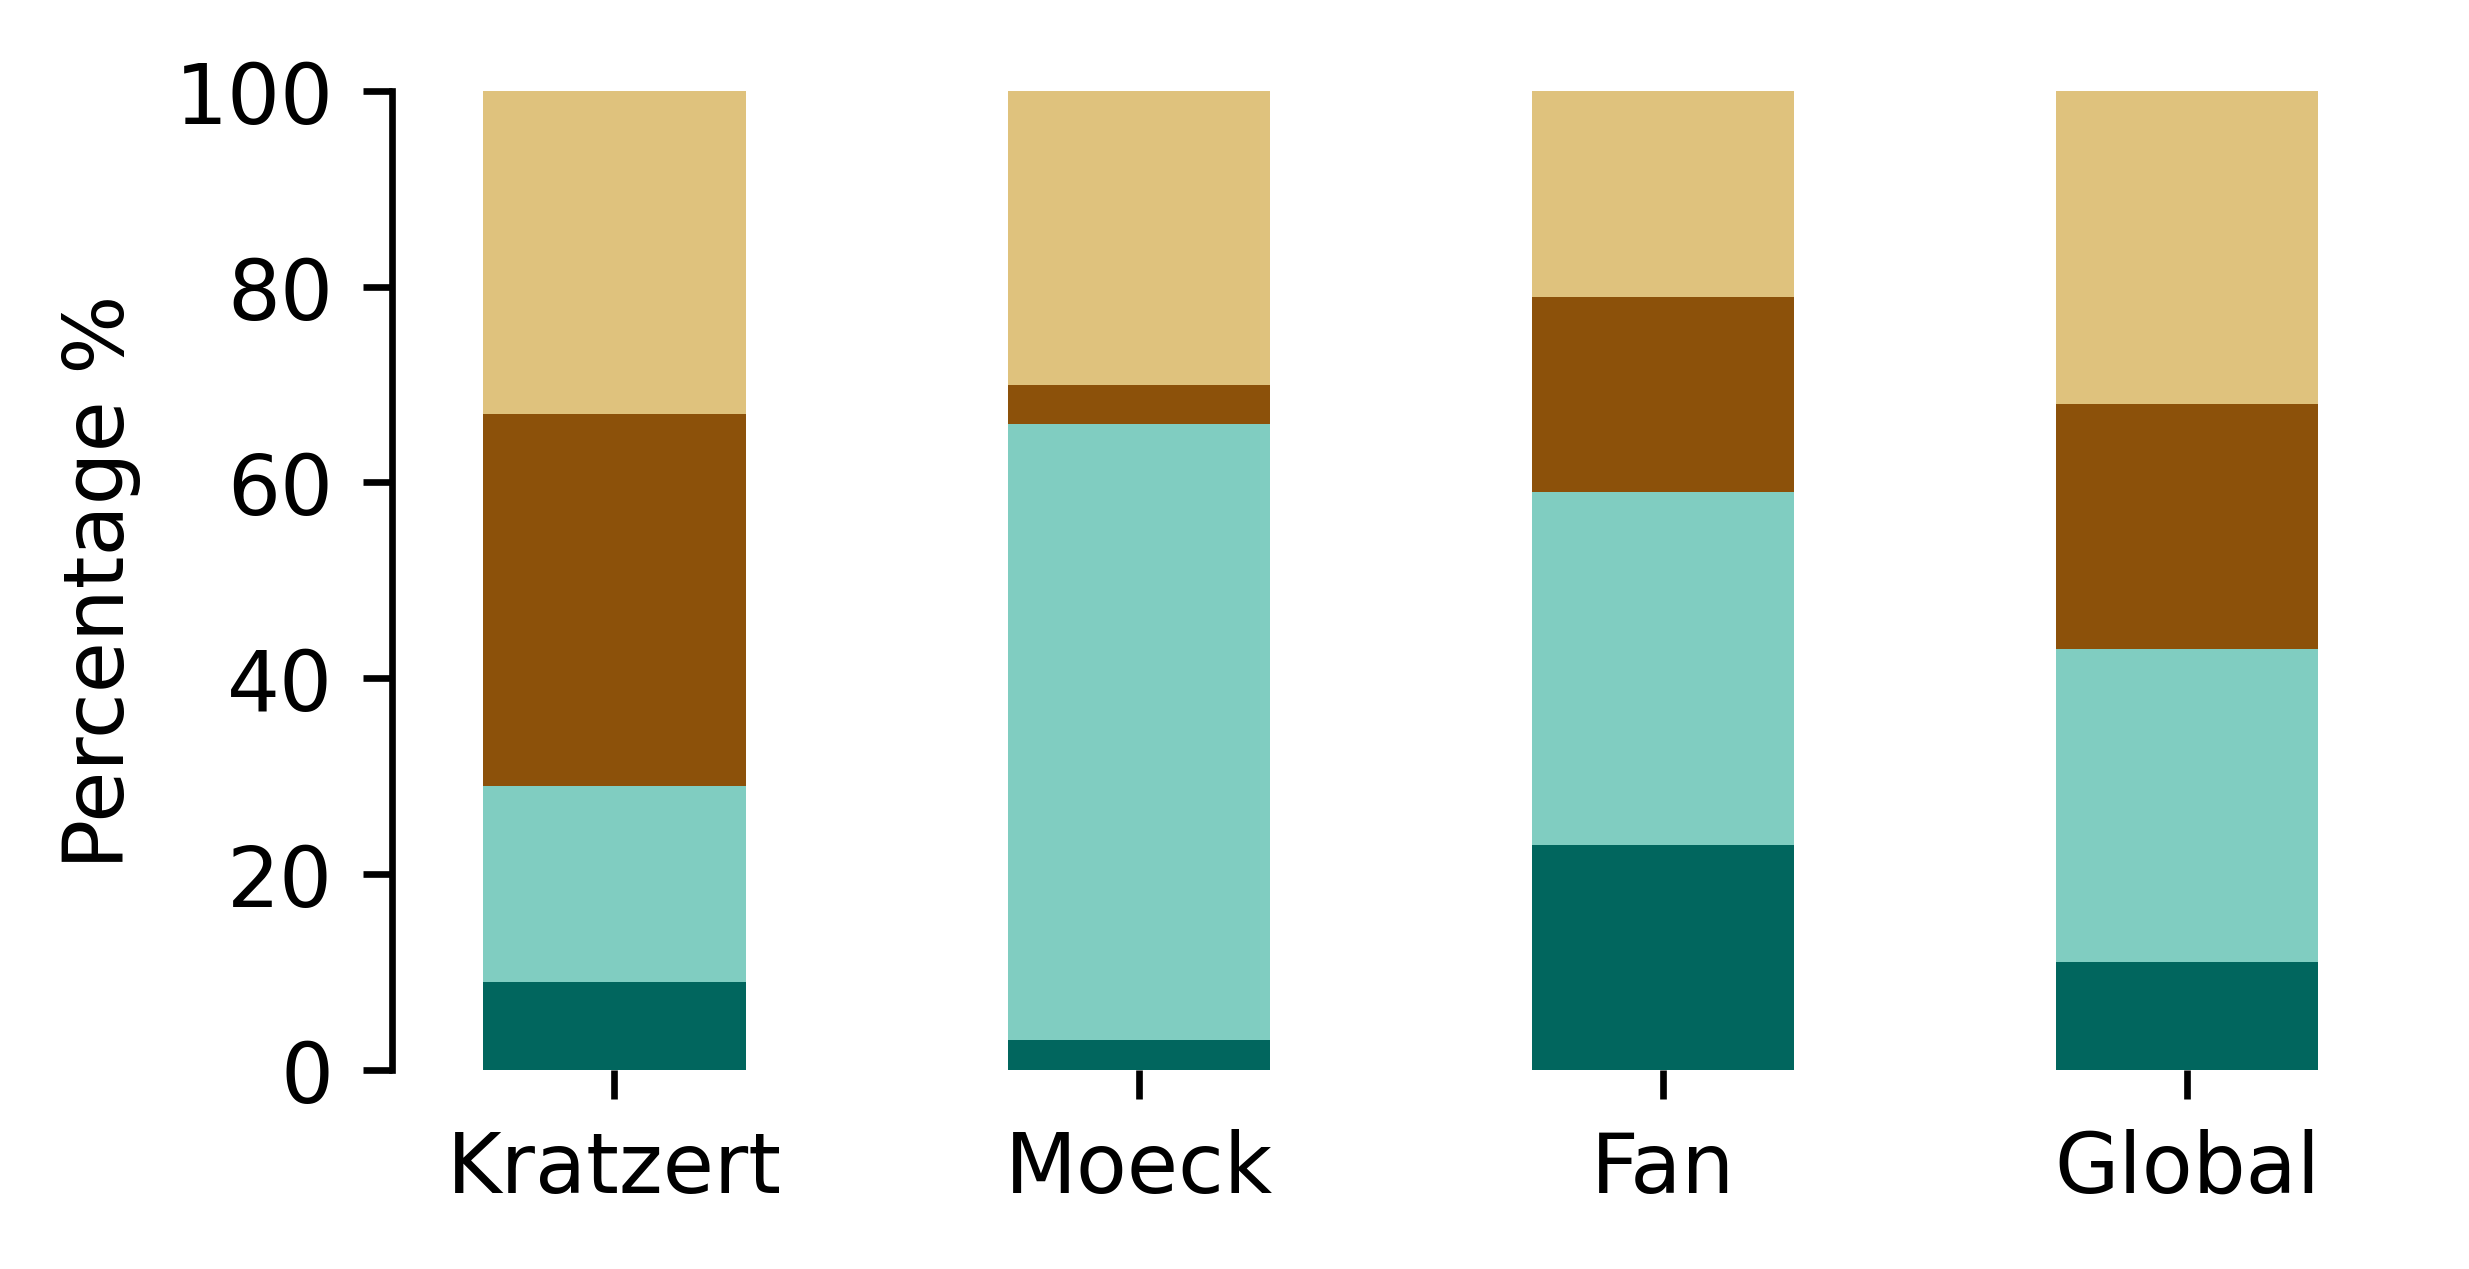
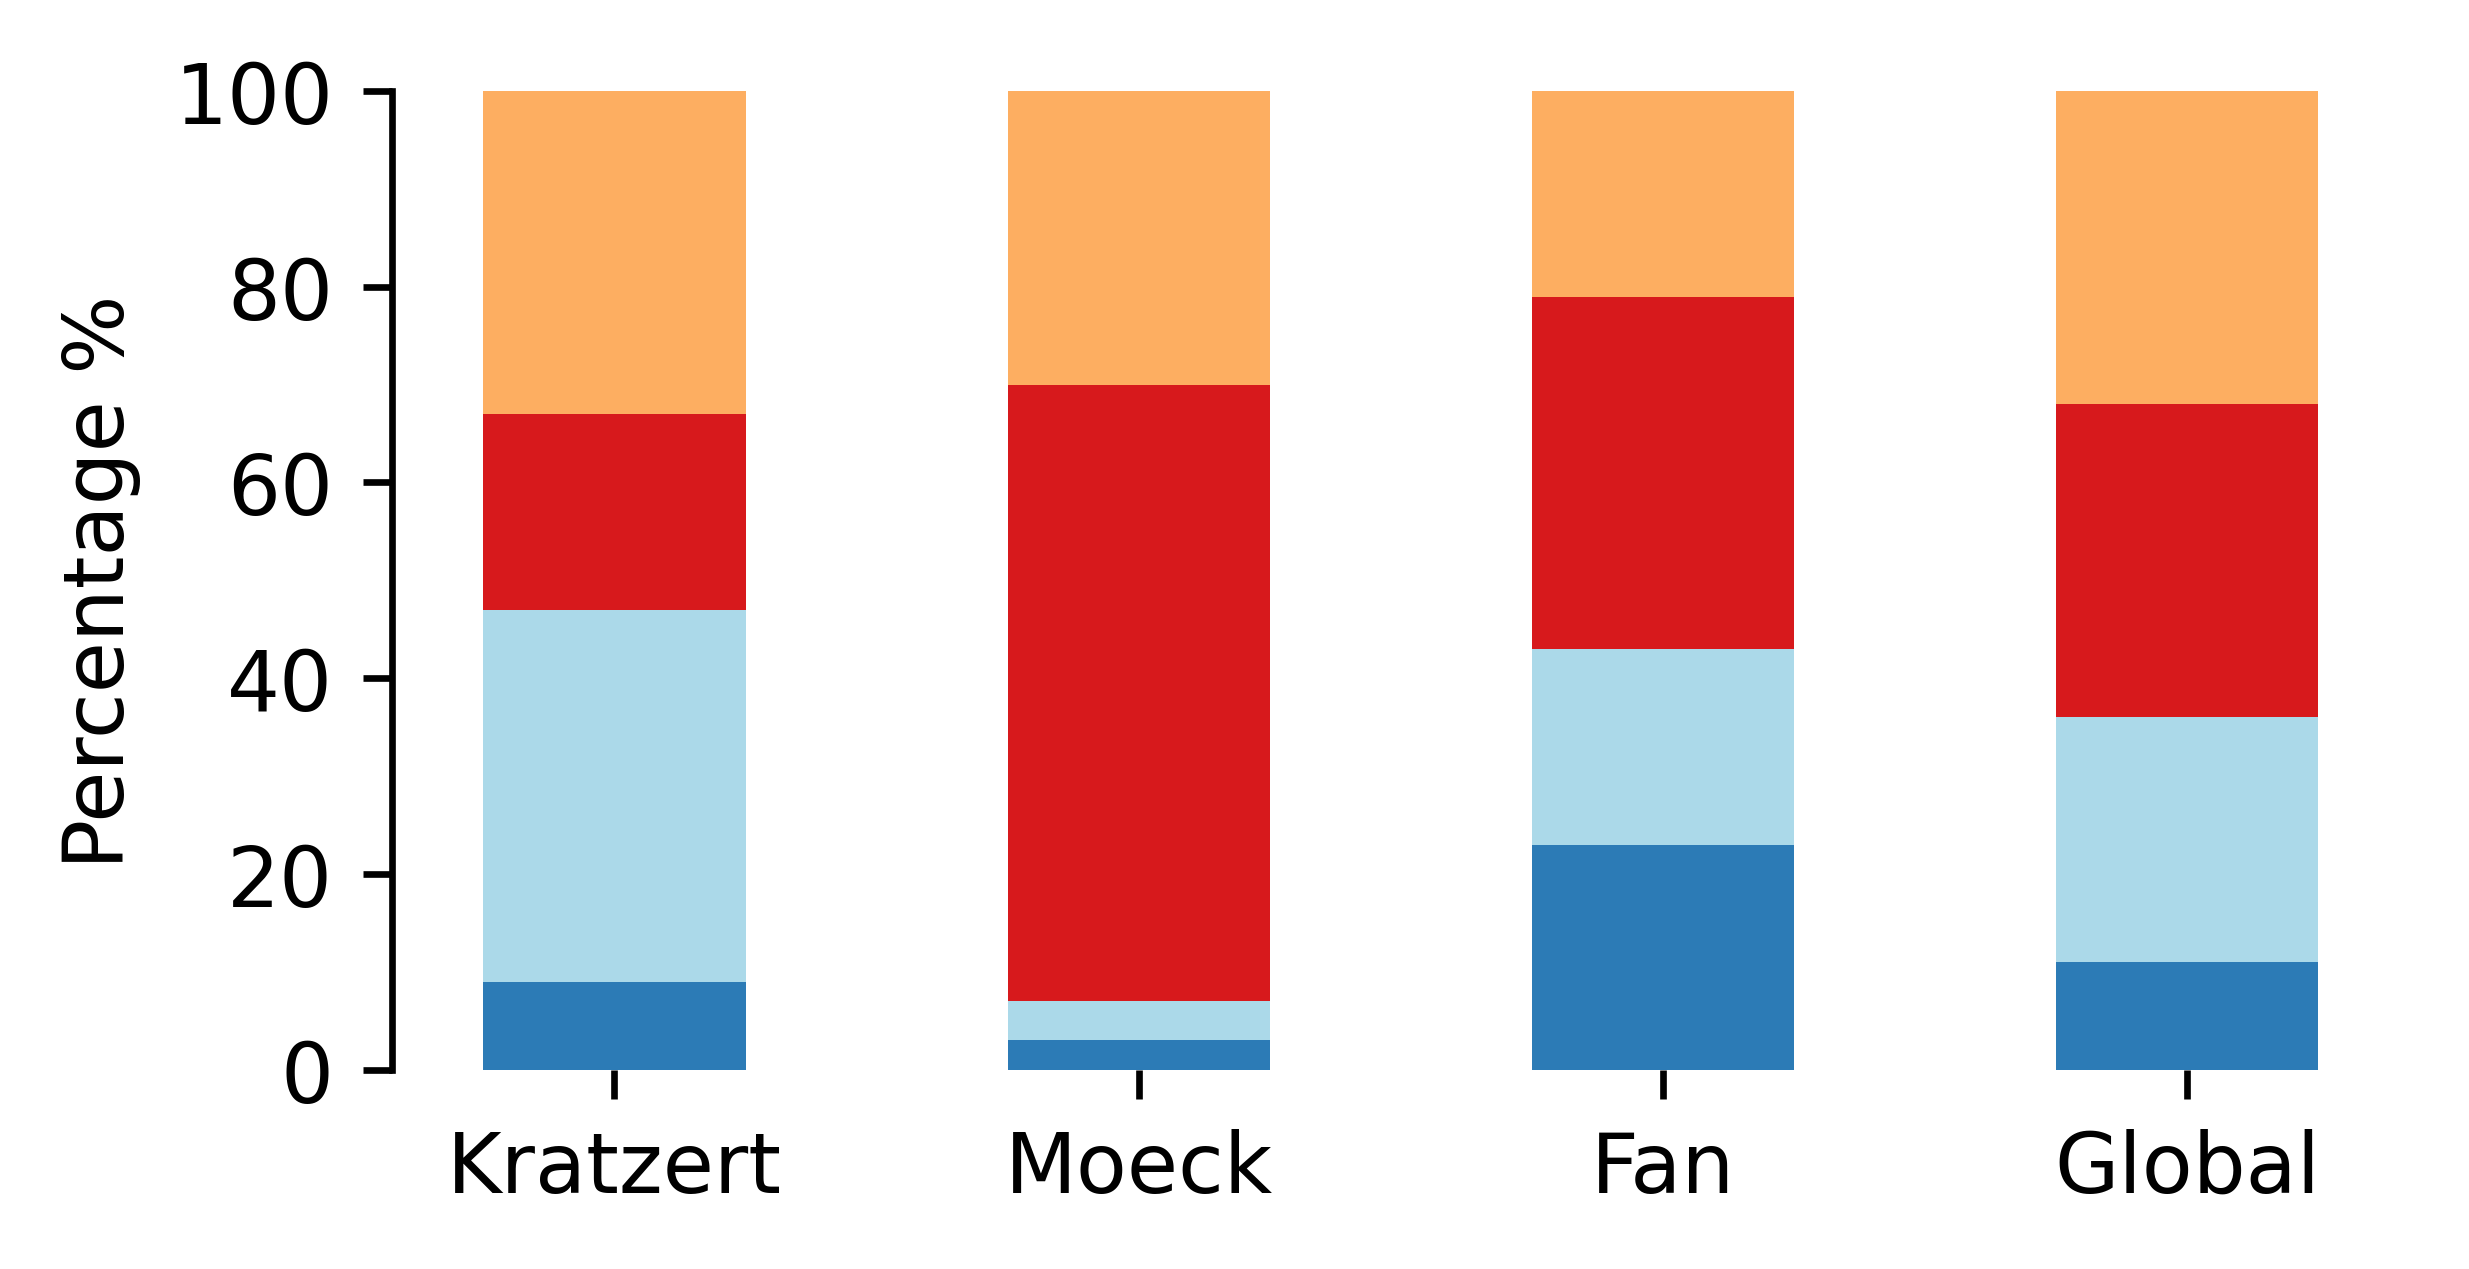
maintenance

diff --git a/plot_data_bias.py b/plot_data_bias.py
@@ -13,7 +13,6 @@ if not os.path.isdir(results_path):
 # load and process data
 df = pd.read_csv("data/data_bias.csv", sep='\t')
 
-
 x = ["Kratzert", "Moeck", "Fan", "Global"]
 #x = ['Global', 'Streamflow (Kratzert et al., 2023)', 'Groundwater recharge (Moeck et al., 2020)', 'Water table depth (Fan et al., 2013)']
 y0 = 100*df.loc[0].values[1:]
@@ -45,16 +44,24 @@ df = pd.read_csv("data/data_bias_aridity.csv", sep='\t')
 
 x = ["Kratzert", "Moeck", "Fan", "Global"]
 #x = ['Global', 'Streamflow (Kratzert et al., 2023)', 'Groundwater recharge (Moeck et al., 2020)', 'Water table depth (Fan et al., 2013)']
+#y0 = 100*df.loc[0].values[1:]
+#y1 = 100*df.loc[1].values[1:]
+#y2 = 100*df.loc[2].values[1:]+1 # to compensate for rounding error
+#y3 = 100*df.loc[3].values[1:]+1
 y0 = 100*df.loc[0].values[1:]
 y1 = 100*df.loc[1].values[1:]
 y2 = 100*df.loc[2].values[1:]+1 # to compensate for rounding error
 y3 = 100*df.loc[3].values[1:]+1
 fig = plt.figure(figsize=(4, 2), constrained_layout=True)
 width = 0.5
-bar1 = plt.bar(x, y0, width=width, color='#01665e', label='Humid plains')
-bar2 = plt.bar(x, y1, bottom=y0, width=width, color='#80cdc1', label='Arid plains')
-bar3 = plt.bar(x, y2, bottom=y0+y1, width=width, color='#8c510a', label='Humid uplands')
-bar4 = plt.bar(x, y3, bottom=y0+y1+y2, width=width, color='#dfc27d', label='Arid uplands')
+#bar1 = plt.bar(x, y0, width=width, color='#01665e', label='Humid plains')
+#bar2 = plt.bar(x, y1, bottom=y0, width=width, color='#80cdc1', label='Arid plains')
+#bar3 = plt.bar(x, y2, bottom=y0+y1, width=width, color='#8c510a', label='Humid uplands')
+#bar4 = plt.bar(x, y3, bottom=y0+y1+y2, width=width, color='#dfc27d', label='Arid uplands')
+bar1 = plt.bar(x, y0, width=width, color='#2c7bb6', label='Humid plains')
+bar3 = plt.bar(x, y2, bottom=y0, width=width, color='#abd9e9', label='Humid uplands')
+bar2 = plt.bar(x, y1, bottom=y0+y2, width=width, color='#d7191c', label='Arid plains')
+bar4 = plt.bar(x, y3, bottom=y0+y1+y2, width=width, color='#fdae61', label='Arid uplands')
 #plt.xlabel("Landform")
 plt.ylabel('Percentage %')
 plt.ylim([0,100])
